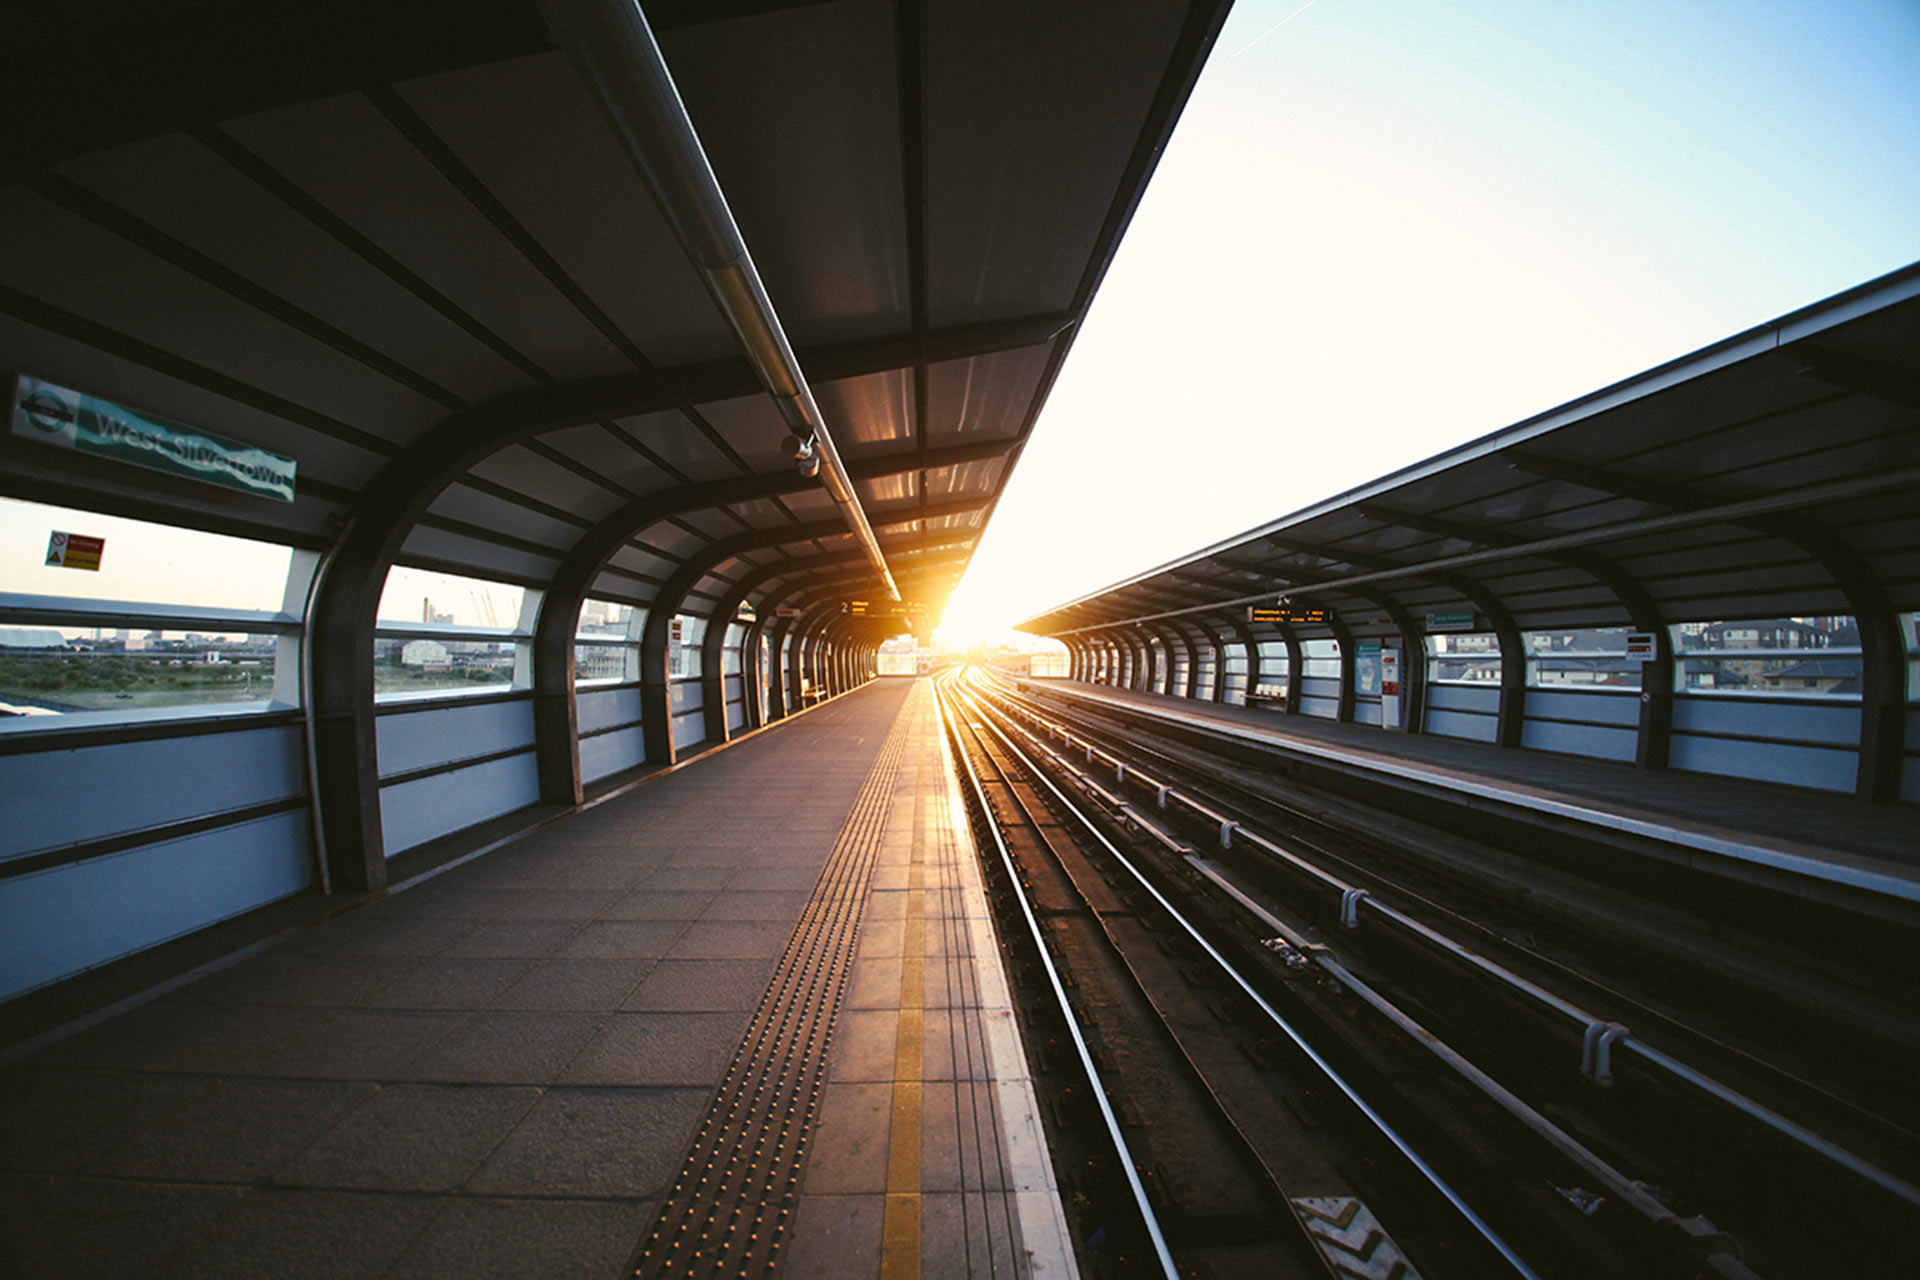
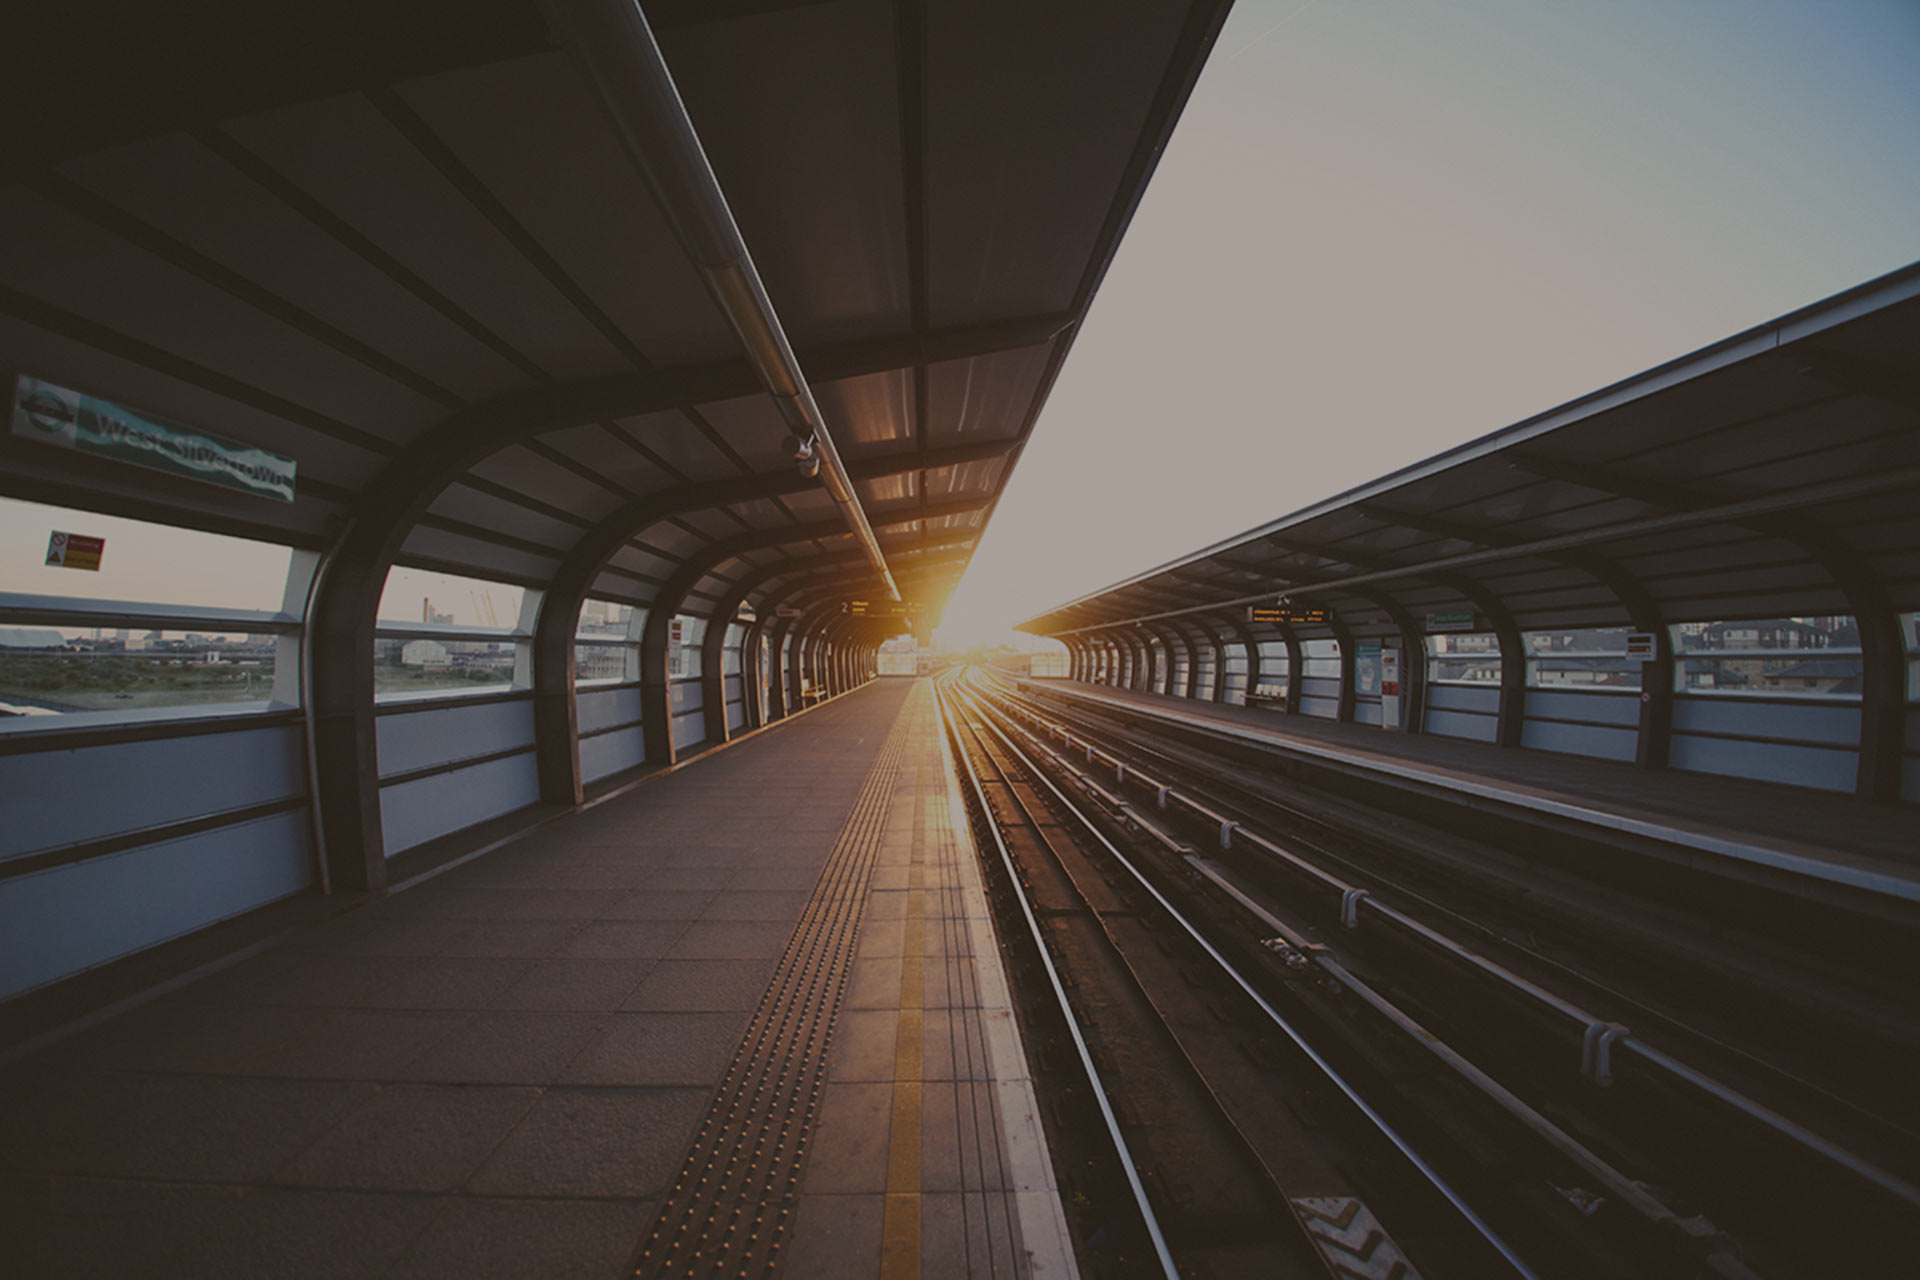
image

diff --git a/css/style.css b/css/style.css
@@ -11,12 +11,17 @@ background-color: whitesmoke;
 font-family: "Apercu Mono Regular", 'Andale Mono', monospace;
 }
 
+.jumbotron h1{
+  font-size: 70px;
+  font-weight: 800;
+}
+
 .navbar{ 
     background-image: none;
 }
 
 #my-navbar{
-  background: #2B1A22;
+  background: #3B3B3B;
 }
 
 .bg{
@@ -48,14 +53,14 @@ blockquote{
 }
 
 .jumbotron {
-background-image: url("../train.jpg");
+background-image: url("../sea.jpg");
 no-repeat   center center;
 -webkit-background-size: cover;
 -moz-background-size: cover;
 -o-background-size: cover;
 background-size: cover;
 min-height:100%;
-color:linen;
+color:rgba(43,26,34);
 }
 
 .overlay{
